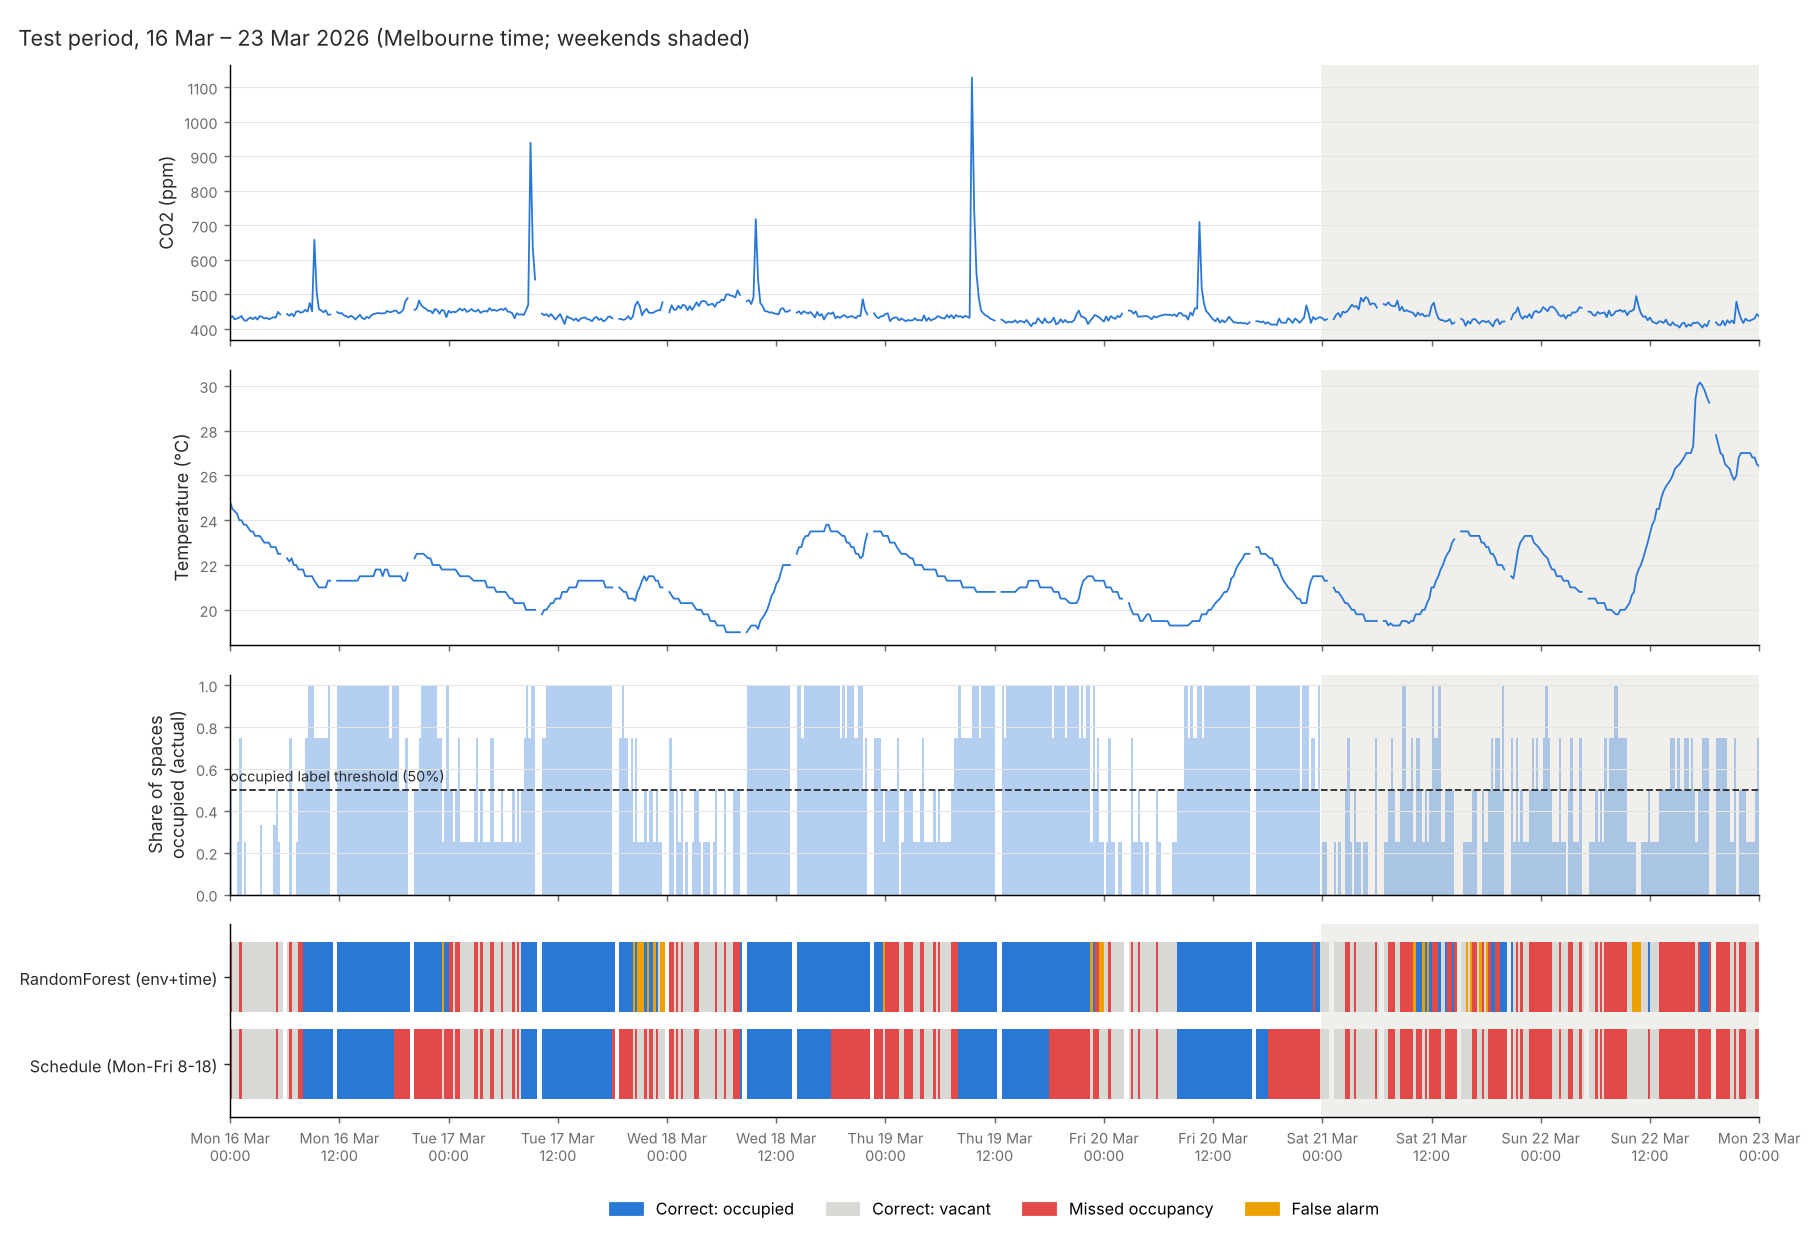
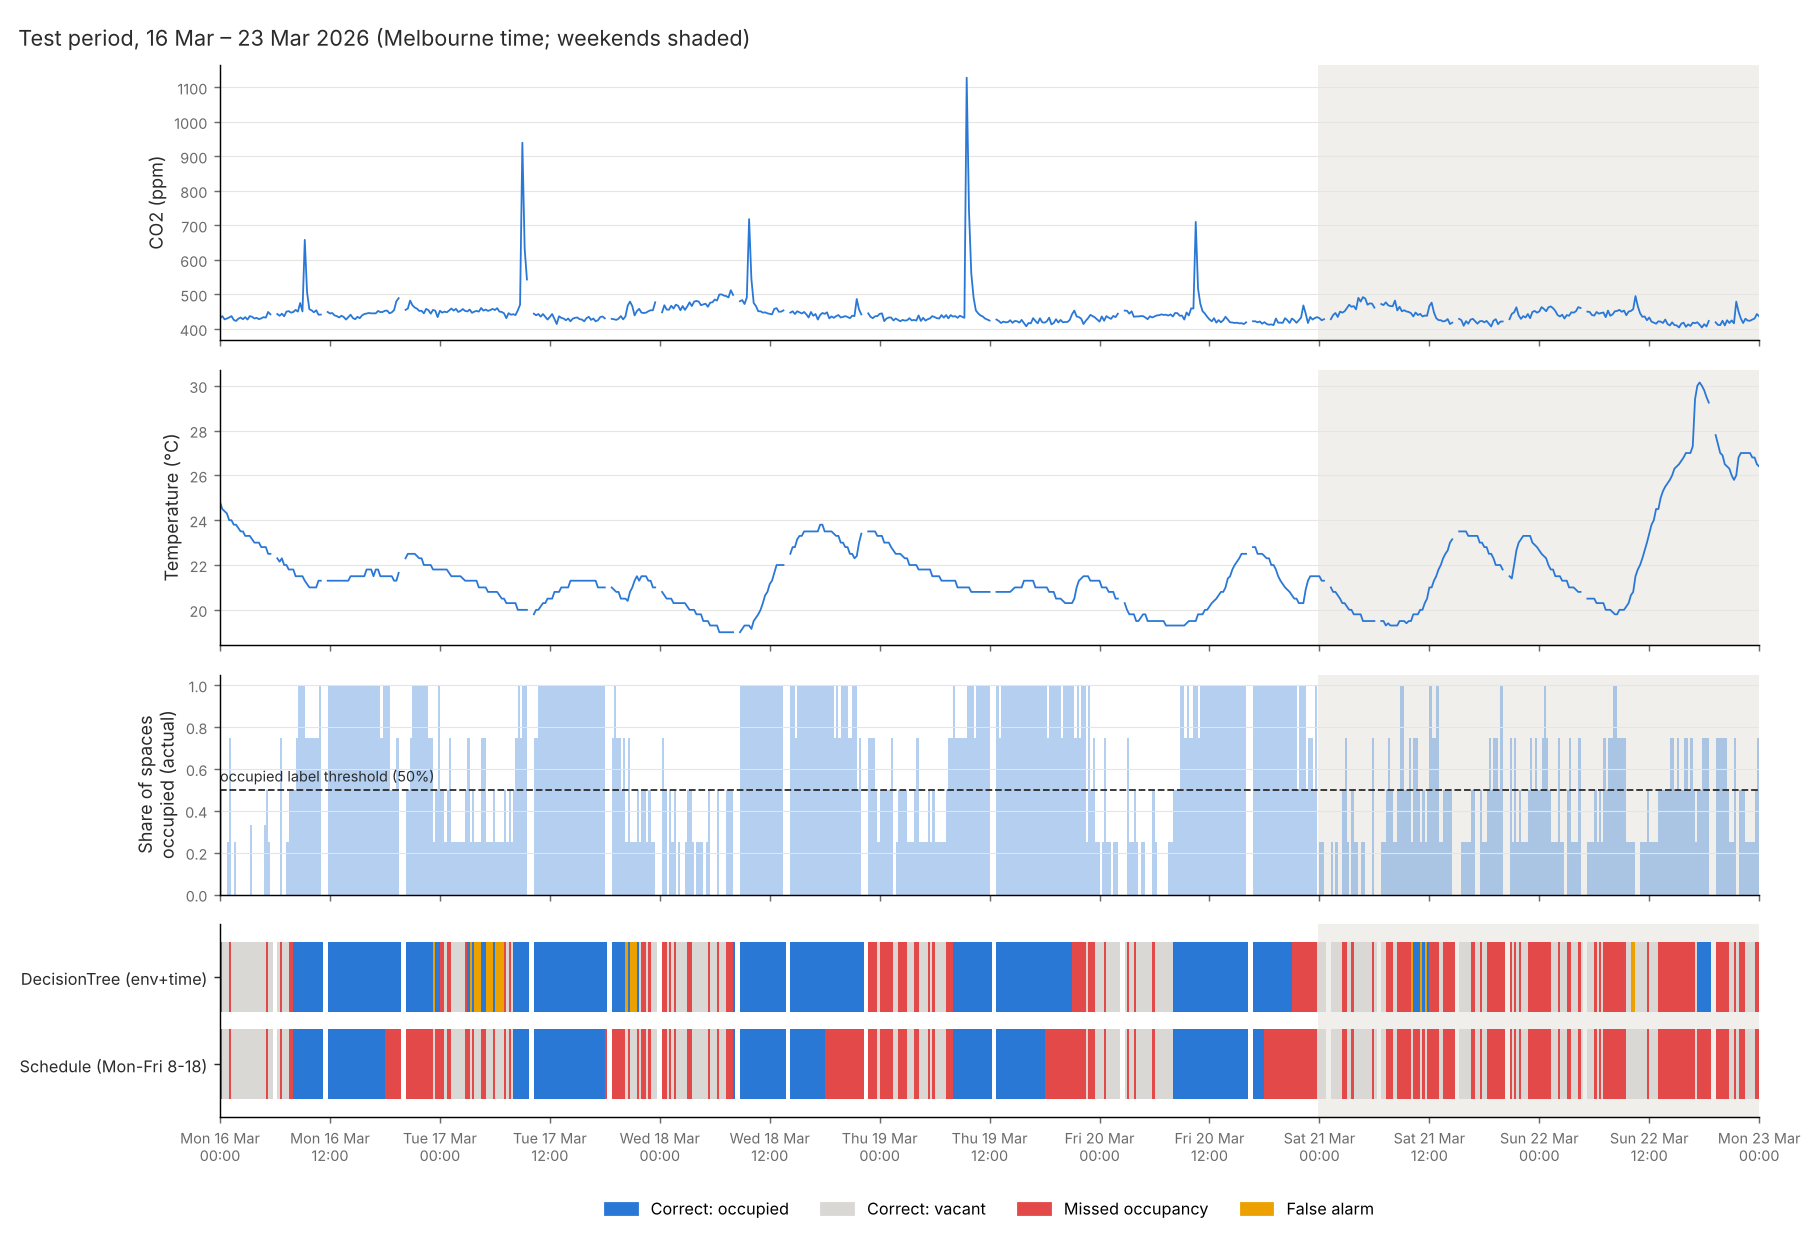
Feature the decision tree as the recommended model in outputs
- Test-period timelines show the decision tree (env+time) and the schedule
- feature_importance.csv reports both tree models side by side
- Threshold sensitivity compares the CO2 rule, decision tree and random
  forest (env+time)

diff --git a/code/main.py b/code/main.py
@@ -67,7 +67,7 @@ def compare_on_test(X_train, y_train, X_test, y_test, out_dir):
     evaluate.plot_confusion_matrices(y_test, predictions, os.path.join(out_dir, "confusion_matrices.png"))
 
     timeline_models = {name: predictions[name] for name in
-                       [model_name("RandomForest", "env+time"), "Schedule (Mon-Fri 8-18)"]}
+                       [model_name("DecisionTree", "env+time"), "Schedule (Mon-Fri 8-18)"]}
     evaluate.plot_test_timeline(X_test, timeline_models, os.path.join(out_dir, "test_timeline.png"))
     # Zoom into the first full Monday-to-Sunday week of the test period
     test_start = X_test.index.min().tz_convert(config.LOCAL_TZ).normalize()
@@ -81,10 +81,10 @@ def compare_on_test(X_train, y_train, X_test, y_test, out_dir):
     evaluate.plot_decision_tree(tree, tree_features, os.path.join(out_dir, "decision_tree_full.png"),
                                 rules_path=os.path.join(out_dir, "decision_tree_rules.txt"))
 
-    rf = fitted[model_name("RandomForest", "env+time")]
-    importances = pd.Series(rf.feature_importances_, index=train_models.FEATURE_SETS["env+time"])
-    importances.sort_values(ascending=False).to_csv(os.path.join(out_dir, "feature_importance.csv"),
-                                                    header=["importance"])
+    importances = pd.DataFrame({
+        kind: fitted[model_name(kind, "env+time")].feature_importances_ for kind in train_models.MODEL_BUILDERS
+    }, index=tree_features)
+    importances.sort_values("DecisionTree", ascending=False).to_csv(os.path.join(out_dir, "feature_importance.csv"))
     return metrics
 
 
@@ -130,7 +130,7 @@ def threshold_sensitivity(data, out_dir, thresholds=(0.2, 0.4, 0.5, 0.6, 0.8)):
         X_train, y_train, X_test, y_test = train, train["occupied"], test, test["occupied"]
         preds = {
             "CO2 threshold (tuned)": co2_threshold_fit_predict(X_train, y_train, X_test),
-            "RandomForest (env)": make_fit_predict("RandomForest", "env")(X_train, y_train, X_test),
+            "DecisionTree (env+time)": make_fit_predict("DecisionTree", "env+time")(X_train, y_train, X_test),
             "RandomForest (env+time)": make_fit_predict("RandomForest", "env+time")(X_train, y_train, X_test),
         }
         for name, pred in preds.items():
